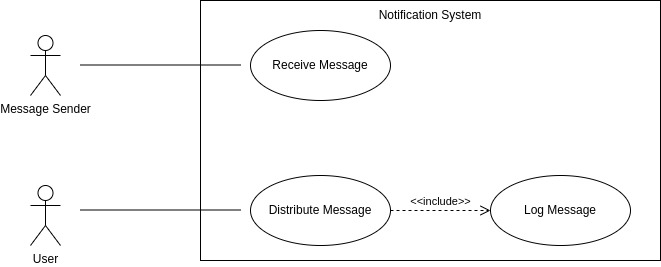
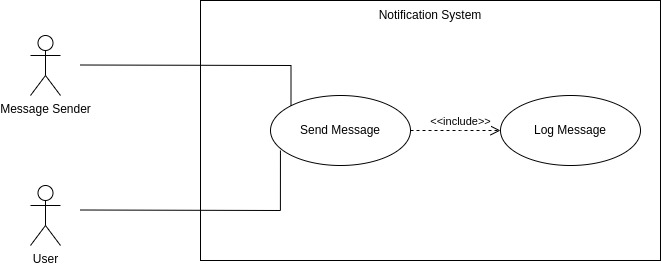
API created

diff --git a/app.py b/app.py
@@ -1,0 +1,123 @@
+import datetime
+
+from flask import Flask, request, jsonify
+
+app = Flask(__name__)
+app.debug = True
+
+
+class Channel:
+    def __init__(self, id, description):
+        self.id = id
+        self.description = description
+
+    @classmethod
+    def id_to_description(cls, channels, id):
+        response = ""
+        for channel in channels:
+            if channel.id == id:
+                response = channel.description
+
+        return response
+
+
+class Category:
+    def __init__(self, id, description):
+        self.id = id
+        self.description = description
+
+    @classmethod
+    def id_to_description(cls, channels, id):
+        response = ""
+        for channel in channels:
+            if channel.id == id:
+                response = channel.description
+
+        return response
+
+
+class Message:
+    def __init__(self, content, category):
+        self.content = content
+        self.category = category
+
+    def send_later(self):
+        timestamp = datetime.datetime.now().strftime("%Y-%m-%d %H:%M:%S")
+        with open("messages.log", "a") as file:
+            for user in users:
+                if self.category in user.subscribed:
+                    for channel in user.channels:
+                        log_entry = f"{timestamp} - User: {user.email}, Channel: {Channel.id_to_description(channels,channel)}, Category: {Category.id_to_description(categories, self.category)}, Content: {self.content}\n"
+                        file.write(log_entry)
+
+
+class User:
+    def __init__(self, id, name, email, phone_number, subscribed, channels):
+        self.id = id
+        self.name = name
+        self.email = email
+        self.phone_number = phone_number
+        self.subscribed = subscribed
+        self.channels = channels
+
+
+channels = []
+categories = []
+users = []
+
+
+@app.route("/message", methods=["POST"])
+def message():
+    Message(request.json.get("content"), request.json.get("category")).send_later()
+    return jsonify(message="Your message will be send as soon as possible.")
+
+
+if __name__ == "__main__":
+    sports = Category(1, "Sports")
+    finance = Category(2, "Finance")
+    movies = Category(3, "Movies")
+
+    categories.append(sports)
+    categories.append(finance)
+    categories.append(movies)
+
+    sms = Channel(1, "SMS")
+    email = Channel(2, "E-mail")
+    push = Channel(3, "Push Notification")
+
+    channels.append(sms)
+    channels.append(email)
+    channels.append(push)
+
+    user1 = User(
+        1,
+        "Mozart Doe",
+        "mozart.doe@gmail.com",
+        "5563345435",
+        [categories[0].id, categories[1].id],
+        [channels[1].id, channels[2].id],
+    )
+
+    user2 = User(
+        2,
+        "Rafael Doe",
+        "rafael.doe@gmail.com",
+        "3453453456",
+        [categories[0].id, categories[2].id],
+        [channels[1].id],
+    )
+
+    user3 = User(
+        3,
+        "Mario Doe",
+        "mario.doe@gmail.com",
+        "45675467",
+        [categories[0].id],
+        [channels[0].id, channels[1].id, channels[2].id],
+    )
+
+    users.append(user1)
+    users.append(user2)
+    users.append(user3)
+
+    app.run()
